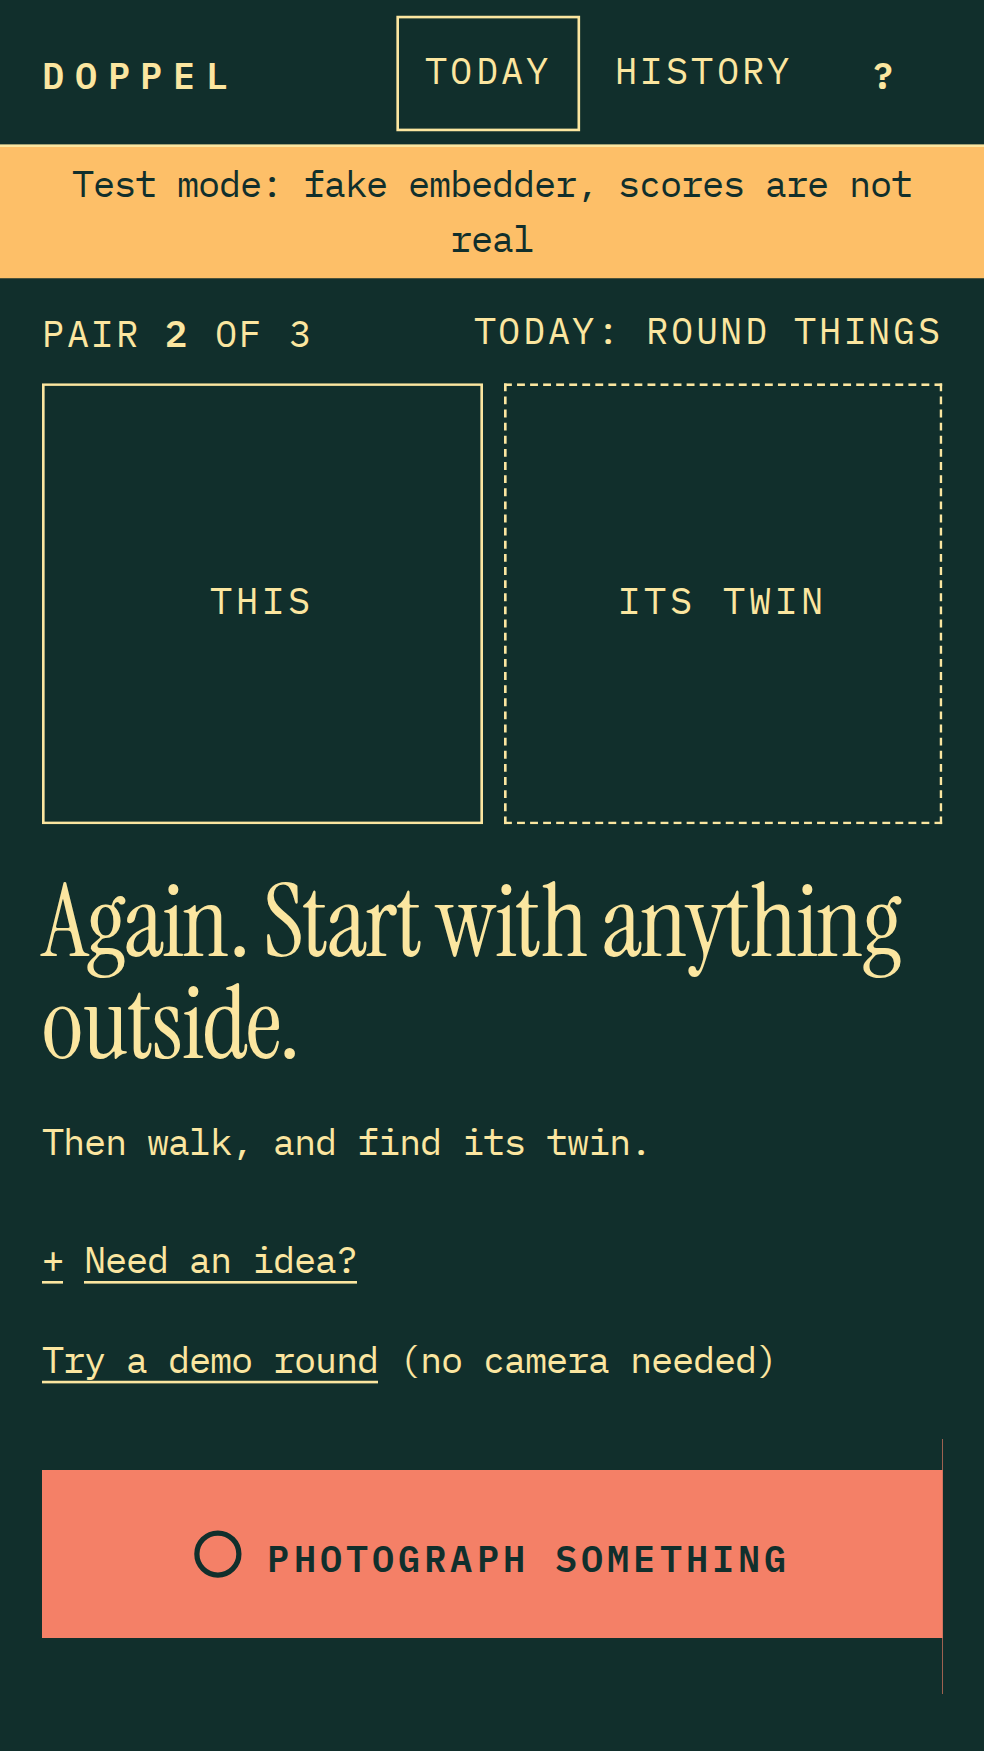
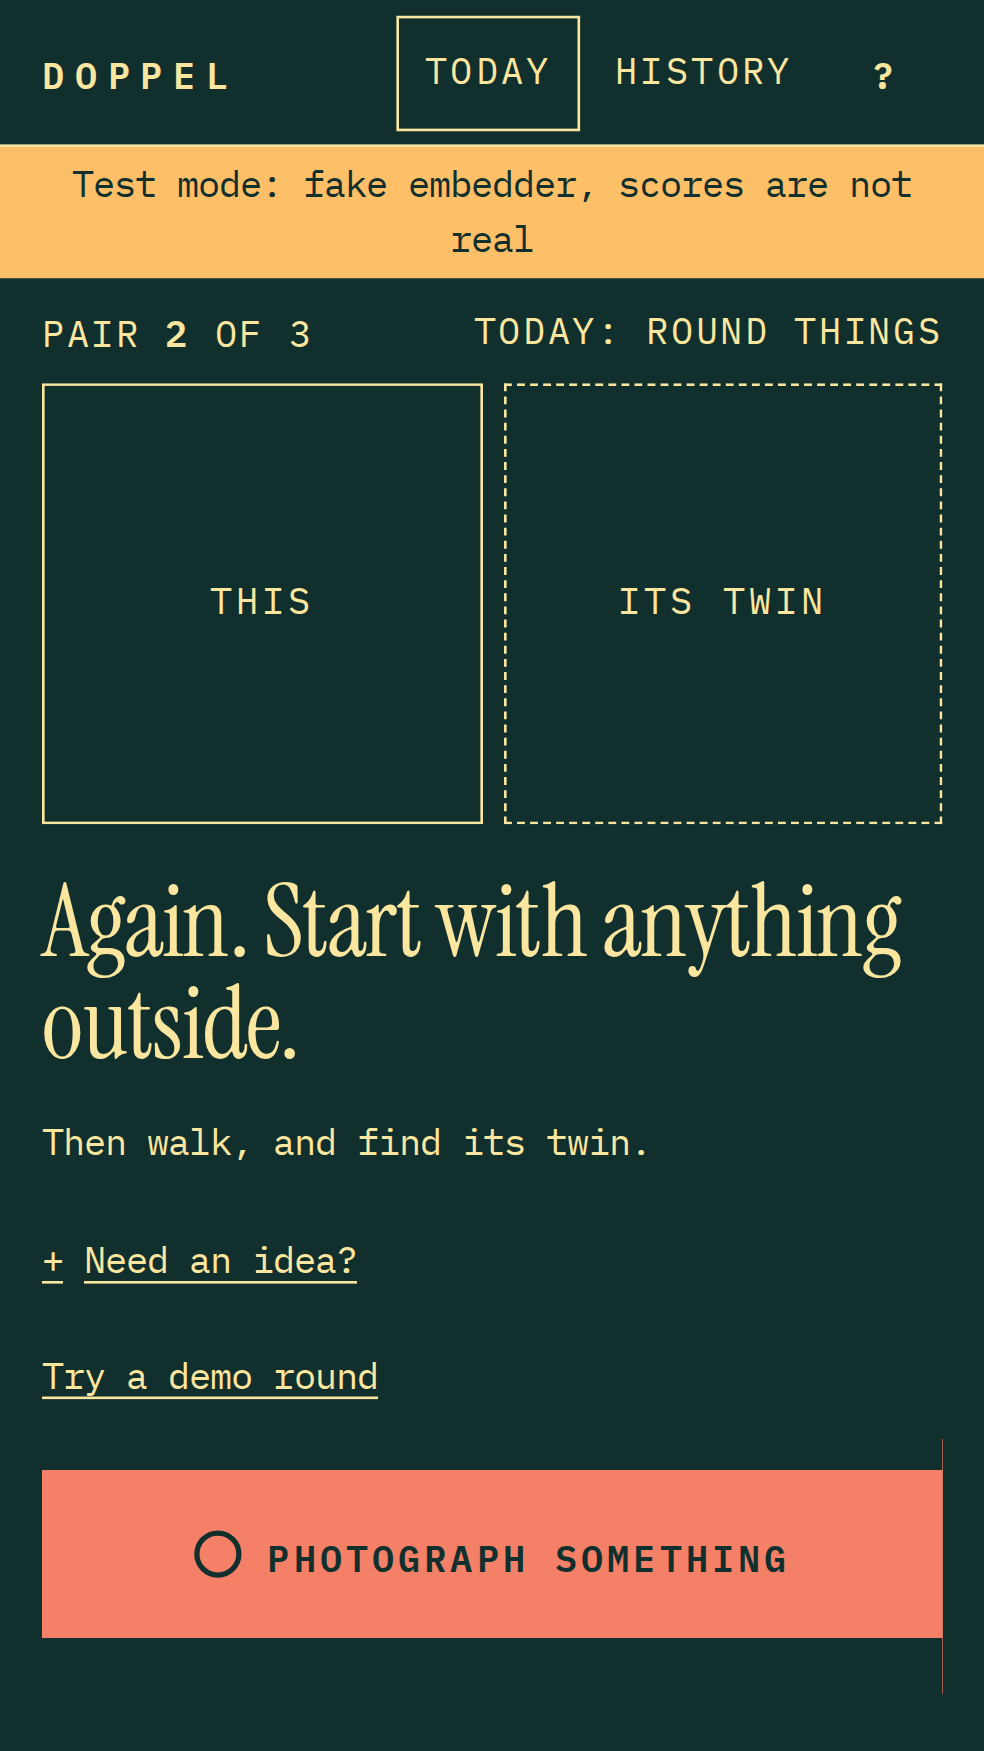
Today: demo round discoverable (line on phones, primary on desktop or without camera, small after a real pair)

diff --git a/web/tests/e2e/discover.spec.ts b/web/tests/e2e/discover.spec.ts
@@ -1,0 +1,77 @@
+import { expect, test, type Page } from "@playwright/test";
+import path from "node:path";
+import { expectAccessible, fixture } from "./helpers";
+
+// The demo round is easy to find from Today, with emphasis by device.
+const MEDIA = path.join(import.meta.dirname, "../../../docs/media");
+const markPlayed = (page: Page) =>
+  page.evaluate(() => new Promise<void>((r) => { const q = indexedDB.open("doppel"); q.onsuccess = () => { const tx = q.result.transaction("meta", "readwrite"); tx.objectStore("meta").put(true, "played"); tx.oncomplete = () => r(); }; }));
+const coral = (page: Page) => page.locator(".dock .btn-shoot");
+
+test.describe("desktop without touch", () => {
+  test.use({ viewport: { width: 1280, height: 800 }, isMobile: false, hasTouch: false });
+  test("the demo is the primary button; Photograph something is secondary", async ({ page }) => {
+    await page.goto("/?embedder=fake#/");
+    await markPlayed(page);
+    await page.reload();
+    await expect(coral(page)).toHaveText("Try a demo round");
+    await expect(coral(page)).toHaveAttribute("href", "#/demo");
+    await expect(page.locator(".dock .btn-secondary")).toHaveText("Photograph something");
+    await expect(page.locator("#photo")).toHaveCount(1); // still possible to upload a photo
+    await expect(page.locator(".demo-line")).toHaveCount(0); // no duplicate line
+    await expectAccessible(page, "today desktop");
+    expect(await page.locator("main").evaluate((el) => getComputedStyle(el).outlineStyle)).toBe("none");
+    await page.screenshot({ path: path.join(MEDIA, "today-desktop-1280.png") });
+  });
+});
+
+test("phone with a camera: Photograph something stays primary, the demo line is above the fold @small", async ({ page }) => {
+  await page.goto("/?embedder=fake#/");
+  await markPlayed(page);
+  await page.reload();
+  await expect(coral(page)).toHaveText("Photograph something");
+  const line = page.getByTestId("demo-link");
+  await expect(line).toHaveText(/^No time to go outside\? Try a 30-second\s+demo\s+→$/);
+  await expect(line).toBeInViewport({ ratio: 1 });
+  // directly under the headline and subline
+  const h = (await page.getByRole("heading", { level: 1 }).boundingBox())!, l = (await line.boundingBox())!;
+  expect(l.y).toBeGreaterThan(h.y + h.height);
+  expect(l.y - (h.y + h.height)).toBeLessThan(90);
+  await expectAccessible(page, "today phone");
+  await page.screenshot({ path: path.join(MEDIA, `today-phone-${page.viewportSize()!.width}.png`) });
+  // first run: same line under the headline, above the fold
+  await page.evaluate(() => new Promise<void>((r) => { const q = indexedDB.open("doppel"); q.onsuccess = () => { const tx = q.result.transaction("meta", "readwrite"); tx.objectStore("meta").delete("played"); tx.oncomplete = () => r(); }; }));
+  await page.reload();
+  await expect(page.getByTestId("demo-link")).toBeInViewport({ ratio: 1 });
+});
+
+test("phone without a camera: the demo becomes primary", async ({ page }) => {
+  await page.addInitScript(() => {
+    navigator.mediaDevices.enumerateDevices = async () => [];
+  });
+  await page.goto("/?embedder=fake#/");
+  await expect(coral(page)).toHaveText("Try a demo round");
+});
+
+test("after one real pair the demo is a small link at the bottom of Today", async ({ page }) => {
+  await page.clock.install({ time: new Date("2026-10-11T15:00:00-04:00") });
+  await page.goto("/?embedder=fake#/");
+  await expect(page.locator("#photo")).toBeEnabled();
+  await page.locator("#photo").setInputFiles(fixture("twins/02-tire.jpg"));
+  await expect(page.getByRole("region", { name: "Walk" })).toBeVisible();
+  await page.clock.fastForward(46_000);
+  await expect(page.locator("#photo")).toBeEnabled();
+  await page.locator("#photo").setInputFiles(fixture("twins/02-donut.jpg"));
+  await expect(page.getByRole("region", { name: "Reveal" })).toBeVisible();
+  await page.getByRole("button", { name: "Next pair" }).click();
+  await expect(page.getByTestId("pair-n")).toHaveText("2");
+  await expect(page.locator(".demo-line")).toHaveCount(0);
+  const small = page.locator(".small-link").getByTestId("demo-link");
+  await expect(small).toHaveText("Try a demo round");
+  // at the bottom: after the ideas
+  const ideas = (await page.locator(".ideas").boundingBox())!, s = (await small.boundingBox())!;
+  expect(s.y).toBeGreaterThan(ideas.y);
+  await expect(coral(page)).toHaveText("Photograph something");
+  await expectAccessible(page, "today after a pair");
+  await page.screenshot({ path: path.join(MEDIA, "today-after-pair.png") });
+});

diff --git a/web/src/ui/screens.ts b/web/src/ui/screens.ts
@@ -25,7 +25,19 @@ const hud = (pair: number, right = "") => `
     <span class="hud-right" data-testid="hud-right">${right}</span>
   </div>`;
 
-const demoLink = `<p class="sub"><a href="${href.demo()}" data-testid="demo-link">Try a demo round</a> (no camera needed)</p>`;
+/**
+ * How the demo round is offered on Today:
+ *   "line"    phones: a line under the headline, "Photograph something" stays primary
+ *   "primary" desktop without touch, or no camera: the demo is the coral button
+ *   "small"   after the player's first real pair: a small link at the bottom
+ */
+export type DemoEmphasis = "line" | "primary" | "small";
+const demoLine = `<p class="sub demo-line"><a href="${href.demo()}" data-testid="demo-link">No time to go outside? Try a 30-second&nbsp;demo&nbsp;→</a></p>`;
+const demoSmall = `<p class="sub small-link"><a href="${href.demo()}" data-testid="demo-link">Try a demo round</a></p>`;
+const firstDock = (demo: DemoEmphasis) =>
+  demo === "primary"
+    ? dock(`<a class="btn btn-shoot" href="${href.demo()}" data-testid="demo-primary">Try a demo round</a>${shootButton("Photograph something", true)}`)
+    : dock(shootButton("Photograph something"));
 
 const themeReadout = (theme?: string) => (theme ? `<span data-testid="theme">Today: ${esc(theme)}</span>` : "");
 const walkedReadout = (meters: number) => `<span data-testid="walked">${meters} M WALKED</span>`;
@@ -59,10 +71,10 @@ export const stack = (key: string, label: string, flash = false) =>
 
 const sees = (label: string, alt?: string) => `Doppel sees: <b data-testid="sees">${esc(label)}${alt ? ` / ${esc(alt)}` : ""}</b>`;
 
-const shootButton = (text: string) => `
-  <label class="shoot">
+const shootButton = (text: string, secondary = false) => `
+  <label class="shoot${secondary ? " secondary" : ""}">
     <input id="photo" type="file" accept="image/*" capture="environment" class="sr" aria-label="${esc(text)}">
-    <span class="btn btn-shoot" aria-hidden="true">${esc(text)}</span>
+    <span class="btn ${secondary ? "btn-secondary" : "btn-shoot"}" aria-hidden="true">${esc(text)}</span>
   </label>`;
 
 const dock = (button: string, extra = "") => `
@@ -98,20 +110,21 @@ export function practiceView(p: Practice): string {
 }
 
 
-export function firstView(pair: number, ideas: string[], firstRun: boolean, practice?: Practice, theme?: string): string {
+export function firstView(pair: number, ideas: string[], firstRun: boolean, practice?: Practice, theme?: string, demo: DemoEmphasis = "line"): string {
   if (firstRun && practice) {
     return `
     <section class="screen first" aria-label="First photo">
       ${hud(pair, themeReadout(theme))}
       ${practiceView(practice)}
       <h1 class="voice lede">Find two different things that look the same. Outside.</h1>
+      ${demo === "line" ? demoLine : ""}
       <p class="sub privacy">Photos never leave your phone. Point it at things, not people.</p>
       <details class="ideas">
         <summary>Need an idea?</summary>
         <ul data-testid="ideas">${ideas.map((i) => `<li>${esc(i)}</li>`).join("")}</ul>
       </details>
-      ${demoLink}
-      ${dock(shootButton("Photograph something"))}
+      ${demo === "small" ? demoSmall : ""}
+      ${firstDock(demo)}
     </section>`;
   }
   return `
@@ -123,13 +136,14 @@ export function firstView(pair: number, ideas: string[], firstRun: boolean, prac
       </div>
       <h1 class="voice">${pair === 1 ? "Find two different things that look the same." : "Again. Start with anything outside."}</h1>
       <p class="sub">${pair === 1 ? "Photograph anything outside. Then walk, and find its twin." : "Then walk, and find its twin."}</p>
+      ${demo === "line" ? demoLine : ""}
       ${firstRun ? `<p class="sub privacy">Photos never leave your phone. Point it at things, not people.</p>` : ""}
       <details class="ideas">
         <summary>Need an idea?</summary>
         <ul data-testid="ideas">${ideas.map((i) => `<li>${esc(i)}</li>`).join("")}</ul>
       </details>
-      ${demoLink}
-      ${dock(shootButton("Photograph something"))}
+      ${demo === "small" ? demoSmall : ""}
+      ${firstDock(demo)}
     </section>`;
 }
 

diff --git a/web/src/main.ts b/web/src/main.ts
@@ -18,7 +18,7 @@ import { band, checkShot, checkTwin, judgePair, PROBLEM_TEXT, readPhoto, suggest
 import { mountDebug } from "./ui/debug";
 import { esc, render } from "./ui/dom";
 import { loadModelWithStatus } from "./ui/model-status";
-import { demoFirstView, doneView, firstView, historyView, howView, revealView, twinView, walkHud, walkPct, walkReadout, walkView, type DonePair } from "./ui/screens";
+import { demoFirstView, doneView, firstView, historyView, howView, revealView, twinView, walkHud, walkPct, walkReadout, walkView, type DemoEmphasis, type DonePair } from "./ui/screens";
 import { loadVocab } from "./vocab";
 import { addFix, denyGps } from "./walk";
 
@@ -144,6 +144,26 @@ async function playPractice(seq: number) {
   develop(app.querySelector("#practice-pair"), app.querySelector<HTMLElement>(".practice .score"));
 }
 
+// ---------- How to offer the demo round on Today
+/** Desktop without touch, or no camera at all: the demo is the better first step. Checked once. */
+let wantsDemo: Promise<boolean> | undefined;
+function deviceWantsDemo(): Promise<boolean> {
+  return (wantsDemo ??= (async () => {
+    if (matchMedia("(pointer: fine)").matches && (navigator.maxTouchPoints ?? 0) === 0) return true;
+    try {
+      const devices = await navigator.mediaDevices?.enumerateDevices?.();
+      if (devices && !devices.some((d) => d.kind === "videoinput")) return true; // no camera found
+    } catch {
+      // can't tell: keep the camera first
+    }
+    return false;
+  })());
+}
+async function demoEmphasis(d: DayState): Promise<DemoEmphasis> {
+  if ((await getMeta<boolean>("realPair")) || donePairs(d).length > 0) return "small";
+  return (await deviceWantsDemo()) ? "primary" : "line";
+}
+
 // ---------- Today
 async function loadToday() {
   place ??= await getMeta<Place>("place");
@@ -183,9 +203,9 @@ async function showToday(seq: number, force = false) {
   const pr = current();
 
   if (p.kind === "first") {
-    const firstRun = !(await getMeta<boolean>("played"));
+    const [firstRun, demo] = [!(await getMeta<boolean>("played")), await demoEmphasis(day)];
     if (seq !== routeSeq) return;
-    render(app, firstView(p.pair, ideasFor(day.day), firstRun, firstRun ? practice : undefined, themeFor(day.day).name));
+    render(app, firstView(p.pair, ideasFor(day.day), firstRun, firstRun ? practice : undefined, themeFor(day.day).name, demo));
     wireShoot(seq, "first");
     if (firstRun) {
       void playPractice(seq);
@@ -319,6 +339,7 @@ async function takePhoto(file: File, which: "first" | "twin", onStatus: (s: stri
     await putShot({ id, day: day!.day, ts: now, vector, reading, thumbBlob });
     const result = judgePair({ vector: first.vector, reading: first.reading }, { vector, reading }, `${day!.day}#${day!.pairs.length}#${retrying(pr) ? 2 : 1}`, undefined, vocab);
     day = acceptTwin(day!, { id, ts: now, label: reading.label }, result, now);
+    await setMeta("realPair", true); // demo rounds never get here
     stopGps();
   }
   onStatus("");

diff --git a/web/src/style.css b/web/src/style.css
@@ -53,6 +53,7 @@ a { color: var(--fg); text-underline-offset: 3px; }
 .steps { margin: 4px 0 0; padding-left: 1.4em; }
 .steps li { margin: 6px 0; }
 main { max-width: 520px; margin: 0 auto; padding: 0 var(--gutter); outline: none; }
+main:focus, main:focus-visible { outline: none; } /* focused after each render for screen readers; not a control */
 .test-banner { margin: 0; padding: 4px var(--gutter); background: var(--temp-4); color: var(--bg); text-align: center; }
 
 /* ---------- type */
@@ -168,6 +169,10 @@ body[data-phase="walking"] .topbar { opacity: .72; }
 .shoot:focus-within .btn { outline: 2px solid var(--fg); outline-offset: 2px; }
 .btn[aria-disabled="true"], .btn[disabled] { opacity: .5; pointer-events: none; }
 .btn.is-busy::before { animation: pulse 1s ease-in-out infinite; }
+.btn-secondary { width: 100%; min-height: 48px; margin-top: 8px; }
+.dock a.btn-shoot { width: 100%; }
+.demo-line a { text-decoration: underline; text-underline-offset: 3px; }
+.small-link { margin-top: 12px; }
 .btn-quiet { color: var(--accent); border-color: var(--accent); }
 .status { min-height: 1.5em; margin: 8px 0 0; }
 .refusal { margin: 0 0 10px; padding: 10px 12px; border: 1px solid var(--accent); }

diff --git a/web/playwright.config.ts b/web/playwright.config.ts
@@ -6,7 +6,8 @@ import { defineConfig, devices } from "@playwright/test";
 // The real model can't run in WSL's Chromium (SwiftShader WebGPU, minutes per
 // embedding), so `npm run test:model` drives Windows Edge instead (scripts/model-eval.mjs).
 const live = process.env.PW_BASE_URL;
-const pixel7 = { ...devices["Pixel 7"], viewport: { width: 390, height: 844 } };
+// Phones have a camera; headless Chromium reports none unless given its fake device.
+const pixel7 = { ...devices["Pixel 7"], viewport: { width: 390, height: 844 }, launchOptions: { args: ["--use-fake-device-for-media-stream"] } };
 
 export default defineConfig({
   testDir: "tests/e2e",

diff --git a/web/tests/e2e/demo.spec.ts b/web/tests/e2e/demo.spec.ts
@@ -7,7 +7,7 @@ test.use({ viewport: { width: 1280, height: 800 }, isMobile: false, hasTouch: fa
 
 test("demo round on desktop: no camera, walk skipped, real reveal, nothing saved", async ({ page }) => {
   await page.goto("/?embedder=fake#/");
-  await page.getByTestId("demo-link").click();
+  await page.getByTestId("demo-primary").click(); // desktop without touch: the demo is the primary button
   await expect(page.getByRole("region", { name: "Demo round" })).toBeVisible();
   await expect(page.getByTestId("demo-note")).toContainText("walk skipped");
   await expect(page.getByTestId("sees")).toHaveText(/^pinecone/);
